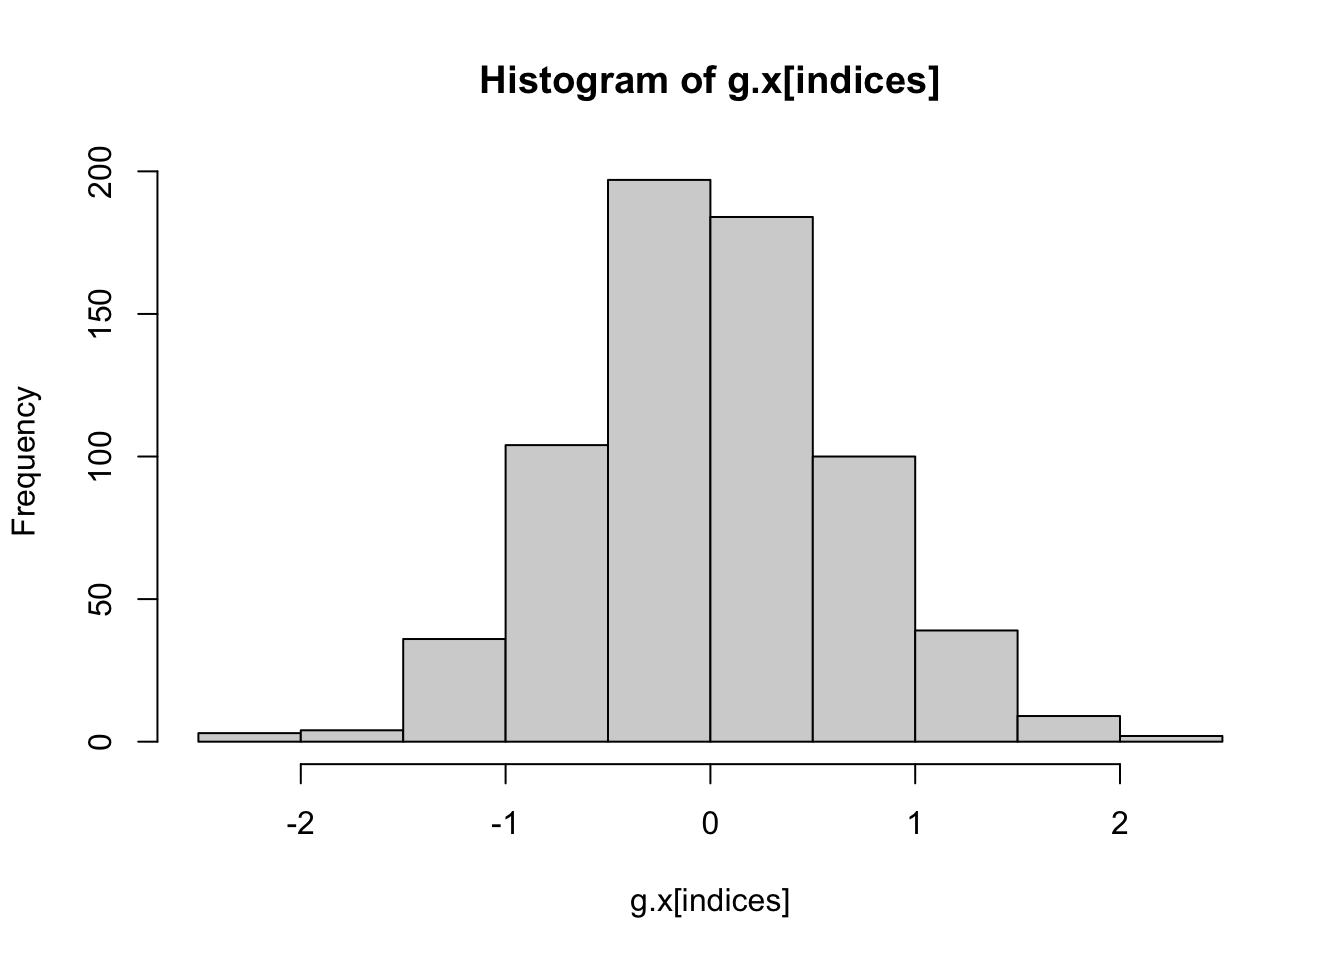
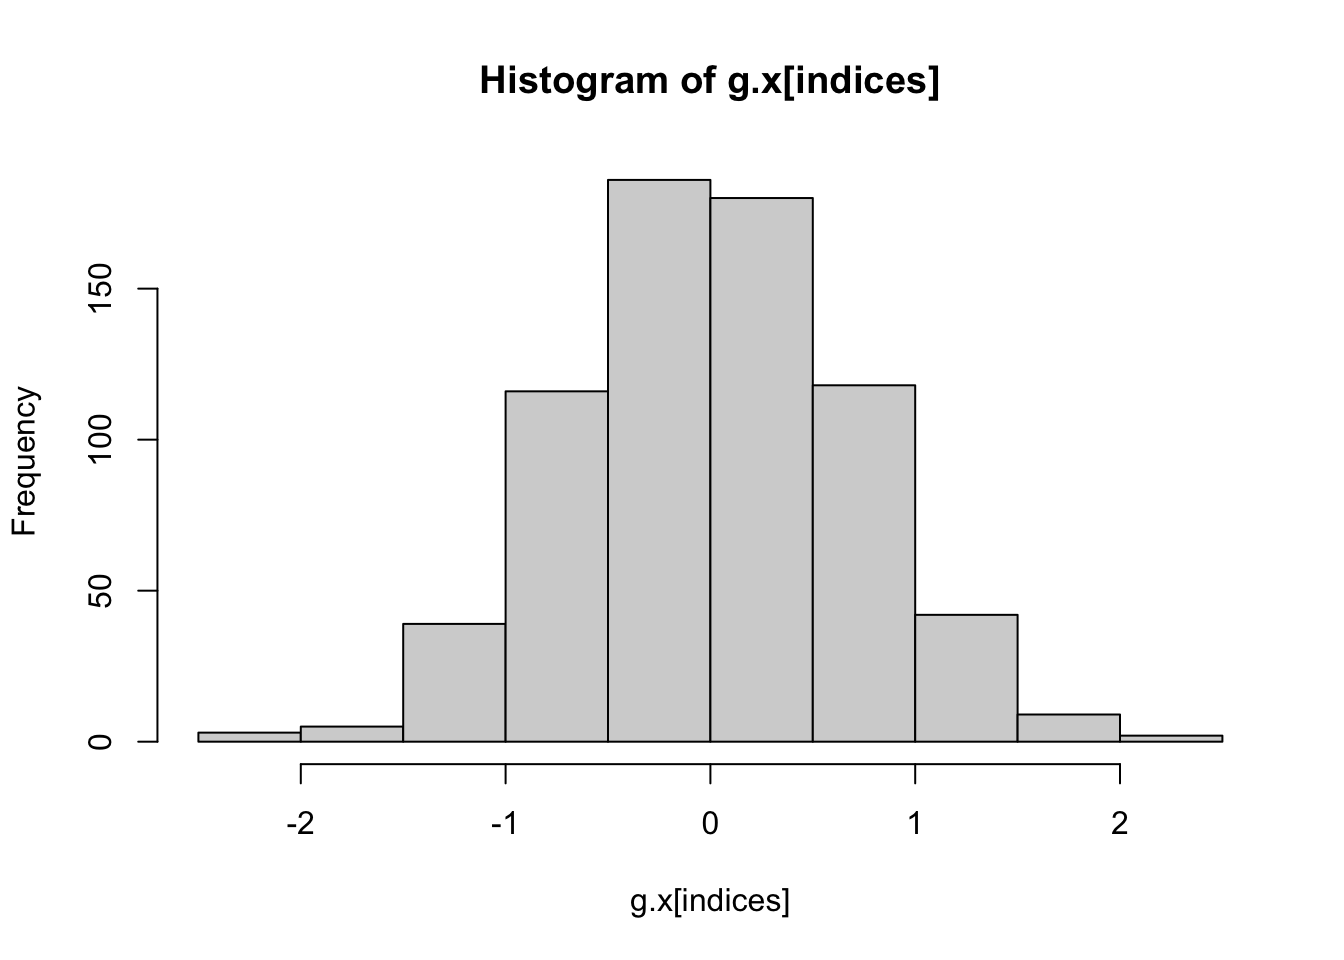
rejection sampling eg of Guassion f

diff --git a/MCMC.html b/MCMC.html
@@ -188,12 +188,12 @@ b    3    4</code></pre>
 <span id="cb7-35"><a href="#cb7-35" aria-hidden="true" tabindex="-1"></a><span class="co"># Print results</span></span>
 <span id="cb7-36"><a href="#cb7-36" aria-hidden="true" tabindex="-1"></a><span class="fu">print</span>(results_df)</span></code><button title="Copy to Clipboard" class="code-copy-button"><i class="bi"></i></button></pre></div>
 <div class="cell-output cell-output-stdout">
-<pre><code>            Mean_1      SD_1        Mean_2      SD_2       Mean_3      SD_3
-10    -0.222935656 1.2848676 -0.1767617153 1.0639362  0.394836538 0.7583442
-100    0.164629977 0.9833797  0.0096871603 0.9042069 -0.070380683 0.8870391
-1000  -0.021809974 0.9944759  0.0356222658 0.9778668  0.031166338 1.0187411
-10000  0.009188513 0.9928316 -0.0028974689 0.9981655 -0.004156853 1.0147705
-1e+05 -0.001968862 1.0010673 -0.0003112835 1.0016263  0.009192224 1.0004835</code></pre>
+<pre><code>             Mean_1      SD_1       Mean_2      SD_2       Mean_3      SD_3
+10    -0.1524802634 0.6713132 -0.402303768 0.7257004 -0.179041468 0.9682968
+100    0.0008194733 1.1079492 -0.157142718 1.0707687 -0.088075694 0.9511530
+1000  -0.0066467194 0.9644927 -0.022070260 0.9831566  0.048646890 0.9892548
+10000  0.0035577302 1.0016043 -0.012684868 0.9930400 -0.009979459 1.0032820
+1e+05  0.0009079651 1.0056631  0.005324358 1.0009696 -0.005499349 1.0018329</code></pre>
 </div>
 <div class="sourceCode cell-code" id="cb9"><pre class="sourceCode r code-with-copy"><code class="sourceCode r"><span id="cb9-1"><a href="#cb9-1" aria-hidden="true" tabindex="-1"></a><span class="co"># Compute Monte Carlo errors for repetition 1</span></span>
 <span id="cb9-2"><a href="#cb9-2" aria-hidden="true" tabindex="-1"></a><span class="co"># sapply() is one of the apply() series of functions that apply some function to each element of a list or vector and return the vector.</span></span>
@@ -202,7 +202,7 @@ b    3    4</code></pre>
 <span id="cb9-5"><a href="#cb9-5" aria-hidden="true" tabindex="-1"></a><span class="co"># Print Monte Carlo errors</span></span>
 <span id="cb9-6"><a href="#cb9-6" aria-hidden="true" tabindex="-1"></a><span class="fu">print</span>(mc_errors)</span></code><button title="Copy to Clipboard" class="code-copy-button"><i class="bi"></i></button></pre></div>
 <div class="cell-output cell-output-stdout">
-<pre><code>[1] 0.424308122 0.095423816 0.031844612 0.009936281 0.003154967</code></pre>
+<pre><code>[1] 0.376261941 0.110167907 0.030945334 0.010017433 0.003156344</code></pre>
 </div>
 </div>
 </section>
@@ -227,13 +227,15 @@ b    3    4</code></pre>
 </section>
 <section id="d-eg" class="level3">
 <h3 class="anchored" data-anchor-id="d-eg">1d eg</h3>
+<p>Background picture：</p>
+<p><img src="images/clipboard-85383824.png" class="img-fluid"></p>
 <div class="cell">
 <div class="sourceCode cell-code" id="cb11"><pre class="sourceCode r code-with-copy"><code class="sourceCode r"><span id="cb11-1"><a href="#cb11-1" aria-hidden="true" tabindex="-1"></a>f <span class="ot">=</span> <span class="cf">function</span>(x){</span>
 <span id="cb11-2"><a href="#cb11-2" aria-hidden="true" tabindex="-1"></a>  <span class="fu">return</span>(<span class="fu">exp</span>(<span class="sc">-</span>x<span class="sc">^</span><span class="dv">2</span>))</span>
 <span id="cb11-3"><a href="#cb11-3" aria-hidden="true" tabindex="-1"></a>}</span>
 <span id="cb11-4"><a href="#cb11-4" aria-hidden="true" tabindex="-1"></a></span>
 <span id="cb11-5"><a href="#cb11-5" aria-hidden="true" tabindex="-1"></a></span>
-<span id="cb11-6"><a href="#cb11-6" aria-hidden="true" tabindex="-1"></a><span class="co"># numeric calculation</span></span>
+<span id="cb11-6"><a href="#cb11-6" aria-hidden="true" tabindex="-1"></a><span class="co"># numeric calculation（Riemann sum）</span></span>
 <span id="cb11-7"><a href="#cb11-7" aria-hidden="true" tabindex="-1"></a>dx<span class="ot">=</span><span class="fl">0.01</span></span>
 <span id="cb11-8"><a href="#cb11-8" aria-hidden="true" tabindex="-1"></a>x<span class="ot">=</span><span class="fu">seq</span>(<span class="sc">-</span><span class="dv">5</span>,<span class="dv">5</span>,dx)</span>
 <span id="cb11-9"><a href="#cb11-9" aria-hidden="true" tabindex="-1"></a>f.x<span class="ot">=</span><span class="fu">f</span>(x)</span>
@@ -246,7 +248,7 @@ b    3    4</code></pre>
 <pre><code>[1] 1.772454</code></pre>
 </div>
 <div class="sourceCode cell-code" id="cb15"><pre class="sourceCode r code-with-copy"><code class="sourceCode r"><span id="cb15-1"><a href="#cb15-1" aria-hidden="true" tabindex="-1"></a><span class="co"># Rejection Sampling to estimate f（x）= exp(-x^2)</span></span>
-<span id="cb15-2"><a href="#cb15-2" aria-hidden="true" tabindex="-1"></a><span class="co"># Uniform(-5,5)</span></span>
+<span id="cb15-2"><a href="#cb15-2" aria-hidden="true" tabindex="-1"></a><span class="co"># Uniform(-5,5) not bounded so we choose c* it later.</span></span>
 <span id="cb15-3"><a href="#cb15-3" aria-hidden="true" tabindex="-1"></a>g.x <span class="ot">=</span> <span class="fu">runif</span>(<span class="dv">10000</span>, <span class="sc">-</span><span class="dv">5</span>, <span class="dv">5</span>)</span>
 <span id="cb15-4"><a href="#cb15-4" aria-hidden="true" tabindex="-1"></a></span>
 <span id="cb15-5"><a href="#cb15-5" aria-hidden="true" tabindex="-1"></a>peak_f <span class="ot">&lt;-</span> <span class="fu">f</span>(<span class="dv">0</span>) <span class="co">#- standard normal</span></span>
@@ -256,10 +258,12 @@ b    3    4</code></pre>
 <span id="cb15-9"><a href="#cb15-9" aria-hidden="true" tabindex="-1"></a></span>
 <span id="cb15-10"><a href="#cb15-10" aria-hidden="true" tabindex="-1"></a>c <span class="ot">=</span> peak_f <span class="sc">/</span> peak_g_uniform <span class="co"># how much (the highest point of) f.x is bigger than g.x</span></span>
 <span id="cb15-11"><a href="#cb15-11" aria-hidden="true" tabindex="-1"></a></span>
-<span id="cb15-12"><a href="#cb15-12" aria-hidden="true" tabindex="-1"></a>t <span class="ot">=</span> <span class="fu">f</span>(g.x) <span class="sc">/</span> (c <span class="sc">*</span> <span class="fu">dunif</span>(g.x, <span class="sc">-</span><span class="dv">5</span>, <span class="dv">5</span>))</span>
-<span id="cb15-13"><a href="#cb15-13" aria-hidden="true" tabindex="-1"></a>u <span class="ot">=</span> <span class="fu">runif</span>(<span class="dv">10000</span>)</span>
-<span id="cb15-14"><a href="#cb15-14" aria-hidden="true" tabindex="-1"></a>indices <span class="ot">=</span> (u <span class="sc">&lt;</span> t)</span>
-<span id="cb15-15"><a href="#cb15-15" aria-hidden="true" tabindex="-1"></a><span class="fu">hist</span>(g.x[indices])</span></code><button title="Copy to Clipboard" class="code-copy-button"><i class="bi"></i></button></pre></div>
+<span id="cb15-12"><a href="#cb15-12" aria-hidden="true" tabindex="-1"></a><span class="co"># g.x在-5到5间</span></span>
+<span id="cb15-13"><a href="#cb15-13" aria-hidden="true" tabindex="-1"></a>t <span class="ot">=</span> <span class="fu">f</span>(g.x) <span class="sc">/</span> (c <span class="sc">*</span> <span class="fu">dunif</span>(g.x, <span class="sc">-</span><span class="dv">5</span>, <span class="dv">5</span>))</span>
+<span id="cb15-14"><a href="#cb15-14" aria-hidden="true" tabindex="-1"></a>u <span class="ot">=</span> <span class="fu">runif</span>(<span class="dv">10000</span>)</span>
+<span id="cb15-15"><a href="#cb15-15" aria-hidden="true" tabindex="-1"></a>?runif</span>
+<span id="cb15-16"><a href="#cb15-16" aria-hidden="true" tabindex="-1"></a>indices <span class="ot">=</span> (u <span class="sc">&lt;</span> t)</span>
+<span id="cb15-17"><a href="#cb15-17" aria-hidden="true" tabindex="-1"></a><span class="fu">hist</span>(g.x[indices])</span></code><button title="Copy to Clipboard" class="code-copy-button"><i class="bi"></i></button></pre></div>
 <div class="cell-output-display">
 <div>
 <figure class="figure">
@@ -271,13 +275,13 @@ b    3    4</code></pre>
 <span id="cb16-2"><a href="#cb16-2" aria-hidden="true" tabindex="-1"></a>integral.f <span class="ot">=</span> ratio <span class="sc">*</span> c</span>
 <span id="cb16-3"><a href="#cb16-3" aria-hidden="true" tabindex="-1"></a>integral.f</span></code><button title="Copy to Clipboard" class="code-copy-button"><i class="bi"></i></button></pre></div>
 <div class="cell-output cell-output-stdout">
-<pre><code>[1] 1.76</code></pre>
+<pre><code>[1] 1.804</code></pre>
 </div>
 <div class="sourceCode cell-code" id="cb18"><pre class="sourceCode r code-with-copy"><code class="sourceCode r"><span id="cb18-1"><a href="#cb18-1" aria-hidden="true" tabindex="-1"></a><span class="co"># Normal Distribution</span></span>
 <span id="cb18-2"><a href="#cb18-2" aria-hidden="true" tabindex="-1"></a>g.x <span class="ot">=</span> <span class="fu">rnorm</span>(<span class="dv">1000</span>)</span>
 <span id="cb18-3"><a href="#cb18-3" aria-hidden="true" tabindex="-1"></a>c <span class="ot">=</span> <span class="fl">2.55</span></span>
 <span id="cb18-4"><a href="#cb18-4" aria-hidden="true" tabindex="-1"></a>t <span class="ot">=</span> <span class="fu">f</span>(g.x) <span class="sc">/</span> (c <span class="sc">*</span> <span class="fu">dnorm</span>(g.x))</span>
-<span id="cb18-5"><a href="#cb18-5" aria-hidden="true" tabindex="-1"></a>u <span class="ot">=</span> <span class="fu">runif</span>(<span class="dv">1000</span>)</span>
+<span id="cb18-5"><a href="#cb18-5" aria-hidden="true" tabindex="-1"></a>u <span class="ot">=</span> <span class="fu">runif</span>(<span class="dv">1000</span>) <span class="co"># Y-axis distribution(since 0-1, uniform!)</span></span>
 <span id="cb18-6"><a href="#cb18-6" aria-hidden="true" tabindex="-1"></a>indices <span class="ot">=</span> (u <span class="sc">&lt;</span> t)</span>
 <span id="cb18-7"><a href="#cb18-7" aria-hidden="true" tabindex="-1"></a><span class="fu">hist</span>(g.x[indices])</span></code><button title="Copy to Clipboard" class="code-copy-button"><i class="bi"></i></button></pre></div>
 <div class="cell-output-display">
@@ -291,30 +295,31 @@ b    3    4</code></pre>
 <span id="cb19-2"><a href="#cb19-2" aria-hidden="true" tabindex="-1"></a>integral.f <span class="ot">=</span> ratio <span class="sc">*</span> c</span>
 <span id="cb19-3"><a href="#cb19-3" aria-hidden="true" tabindex="-1"></a>integral.f</span></code><button title="Copy to Clipboard" class="code-copy-button"><i class="bi"></i></button></pre></div>
 <div class="cell-output cell-output-stdout">
-<pre><code>[1] 1.7289</code></pre>
-</div>
-<div class="sourceCode cell-code" id="cb21"><pre class="sourceCode r code-with-copy"><code class="sourceCode r"><span id="cb21-1"><a href="#cb21-1" aria-hidden="true" tabindex="-1"></a><span class="co"># Importance Sampling</span></span>
-<span id="cb21-2"><a href="#cb21-2" aria-hidden="true" tabindex="-1"></a>g.x <span class="ot">=</span> <span class="fu">rnorm</span>(<span class="dv">100000</span>)</span>
-<span id="cb21-3"><a href="#cb21-3" aria-hidden="true" tabindex="-1"></a>w <span class="ot">=</span> <span class="fu">f</span>(g.x) <span class="sc">/</span> <span class="fu">dnorm</span>(g.x)</span>
-<span id="cb21-4"><a href="#cb21-4" aria-hidden="true" tabindex="-1"></a><span class="fu">mean</span>(w)</span></code><button title="Copy to Clipboard" class="code-copy-button"><i class="bi"></i></button></pre></div>
-<div class="cell-output cell-output-stdout">
-<pre><code>[1] 1.773084</code></pre>
-</div>
-<div class="sourceCode cell-code" id="cb23"><pre class="sourceCode r code-with-copy"><code class="sourceCode r"><span id="cb23-1"><a href="#cb23-1" aria-hidden="true" tabindex="-1"></a>g.x <span class="ot">=</span> <span class="fu">runif</span>(<span class="dv">100000</span>, <span class="sc">-</span><span class="dv">5</span>, <span class="dv">5</span>)</span>
-<span id="cb23-2"><a href="#cb23-2" aria-hidden="true" tabindex="-1"></a>w <span class="ot">=</span> <span class="fu">f</span>(g.x) <span class="sc">/</span> <span class="fu">dunif</span>(g.x, <span class="sc">-</span><span class="dv">5</span>, <span class="dv">5</span>)</span>
-<span id="cb23-3"><a href="#cb23-3" aria-hidden="true" tabindex="-1"></a><span class="fu">mean</span>(w)</span></code><button title="Copy to Clipboard" class="code-copy-button"><i class="bi"></i></button></pre></div>
-<div class="cell-output cell-output-stdout">
-<pre><code>[1] 1.776034</code></pre>
+<pre><code>[1] 1.785</code></pre>
 </div>
 </div>
 </section>
 </section>
 <section id="importance-sampling" class="level2">
 <h2 class="anchored" data-anchor-id="importance-sampling">Importance Sampling</h2>
+<p>eg.</p>
+<div class="cell">
+<div class="sourceCode cell-code" id="cb21"><pre class="sourceCode r code-with-copy"><code class="sourceCode r"><span id="cb21-1"><a href="#cb21-1" aria-hidden="true" tabindex="-1"></a>g.x <span class="ot">=</span> <span class="fu">rnorm</span>(<span class="dv">100000</span>)</span>
+<span id="cb21-2"><a href="#cb21-2" aria-hidden="true" tabindex="-1"></a>w <span class="ot">=</span> <span class="fu">f</span>(g.x) <span class="sc">/</span> <span class="fu">dnorm</span>(g.x)</span>
+<span id="cb21-3"><a href="#cb21-3" aria-hidden="true" tabindex="-1"></a><span class="fu">mean</span>(w)</span></code><button title="Copy to Clipboard" class="code-copy-button"><i class="bi"></i></button></pre></div>
+<div class="cell-output cell-output-stdout">
+<pre><code>[1] 1.77034</code></pre>
+</div>
+<div class="sourceCode cell-code" id="cb23"><pre class="sourceCode r code-with-copy"><code class="sourceCode r"><span id="cb23-1"><a href="#cb23-1" aria-hidden="true" tabindex="-1"></a>g.x <span class="ot">=</span> <span class="fu">runif</span>(<span class="dv">100000</span>, <span class="sc">-</span><span class="dv">5</span>, <span class="dv">5</span>)</span>
+<span id="cb23-2"><a href="#cb23-2" aria-hidden="true" tabindex="-1"></a>w <span class="ot">=</span> <span class="fu">f</span>(g.x) <span class="sc">/</span> <span class="fu">dunif</span>(g.x, <span class="sc">-</span><span class="dv">5</span>, <span class="dv">5</span>)</span>
+<span id="cb23-3"><a href="#cb23-3" aria-hidden="true" tabindex="-1"></a><span class="fu">mean</span>(w)</span></code><button title="Copy to Clipboard" class="code-copy-button"><i class="bi"></i></button></pre></div>
+<div class="cell-output cell-output-stdout">
+<pre><code>[1] 1.782015</code></pre>
+</div>
+</div>
 </section>
-</section>
-<section id="sirsampling-importance-resampling" class="level1">
-<h1>SIR（Sampling Importance Resampling）</h1>
+<section id="sirsampling-importance-resampling" class="level2">
+<h2 class="anchored" data-anchor-id="sirsampling-importance-resampling">SIR（Sampling Importance Resampling）</h2>
 <p>这个过程在统计学中被称为重要性重采样或采样重要性重采样（SIR），是一种模拟从复杂分布中抽样的方法。 在SIR方法中，原始样本集合中的某些样本可能会因为具有较高的概率权重而被多次抽取，而其他样本则可能很少或根本不被抽取。这种方法可以用来近似目标分布，特别是当目标分布难以直接抽样时。</p>
 <p><img src="images/clipboard-726327136.png" class="img-fluid"></p>
 <div class="cell">
@@ -330,7 +335,7 @@ b    3    4</code></pre>
 <div class="cell-output-display">
 <div>
 <figure class="figure">
-<p><img src="MCMC_files/figure-html/unnamed-chunk-3-1.png" class="img-fluid figure-img" width="672"></p>
+<p><img src="MCMC_files/figure-html/unnamed-chunk-4-1.png" class="img-fluid figure-img" width="672"></p>
 </figure>
 </div>
 </div>
@@ -355,7 +360,7 @@ b    3    4</code></pre>
 <div class="cell-output-display">
 <div>
 <figure class="figure">
-<p><img src="MCMC_files/figure-html/unnamed-chunk-3-2.png" class="img-fluid figure-img" width="672"></p>
+<p><img src="MCMC_files/figure-html/unnamed-chunk-4-2.png" class="img-fluid figure-img" width="672"></p>
 </figure>
 </div>
 </div>
@@ -370,11 +375,11 @@ b    3    4</code></pre>
 <span id="cb27-6"><a href="#cb27-6" aria-hidden="true" tabindex="-1"></a><span class="co">#检查权重均值</span></span>
 <span id="cb27-7"><a href="#cb27-7" aria-hidden="true" tabindex="-1"></a><span class="fu">mean</span>(new_weights) <span class="co"># should be ~ 1</span></span></code><button title="Copy to Clipboard" class="code-copy-button"><i class="bi"></i></button></pre></div>
 <div class="cell-output cell-output-stdout">
-<pre><code>[1] 0.9914038</code></pre>
+<pre><code>[1] 0.9870844</code></pre>
 </div>
 <div class="sourceCode cell-code" id="cb29"><pre class="sourceCode r code-with-copy"><code class="sourceCode r"><span id="cb29-1"><a href="#cb29-1" aria-hidden="true" tabindex="-1"></a><span class="fu">mean</span>(weights)</span></code><button title="Copy to Clipboard" class="code-copy-button"><i class="bi"></i></button></pre></div>
 <div class="cell-output cell-output-stdout">
-<pre><code>[1] 5.051324</code></pre>
+<pre><code>[1] 5.075601</code></pre>
 </div>
 <div class="sourceCode cell-code" id="cb31"><pre class="sourceCode r code-with-copy"><code class="sourceCode r"><span id="cb31-1"><a href="#cb31-1" aria-hidden="true" tabindex="-1"></a><span class="co"># 归一化新权重</span></span>
 <span id="cb31-2"><a href="#cb31-2" aria-hidden="true" tabindex="-1"></a>new_weights_norm <span class="ot">=</span> new_weights <span class="sc">/</span> <span class="fu">sum</span>(new_weights)</span>
@@ -391,11 +396,12 @@ b    3    4</code></pre>
 <div class="cell-output-display">
 <div>
 <figure class="figure">
-<p><img src="MCMC_files/figure-html/unnamed-chunk-4-1.png" class="img-fluid figure-img" width="672"></p>
+<p><img src="MCMC_files/figure-html/unnamed-chunk-5-1.png" class="img-fluid figure-img" width="672"></p>
 </figure>
 </div>
 </div>
 </div>
+</section>
 <section id="r-basic-coding" class="level2">
 <h2 class="anchored" data-anchor-id="r-basic-coding">R basic coding</h2>
 <ul>
@@ -407,7 +413,7 @@ b    3    4</code></pre>
 <div class="cell-output-display">
 <div>
 <figure class="figure">
-<p><img src="MCMC_files/figure-html/unnamed-chunk-5-1.png" class="img-fluid figure-img" width="672"></p>
+<p><img src="MCMC_files/figure-html/unnamed-chunk-6-1.png" class="img-fluid figure-img" width="672"></p>
 </figure>
 </div>
 </div>
